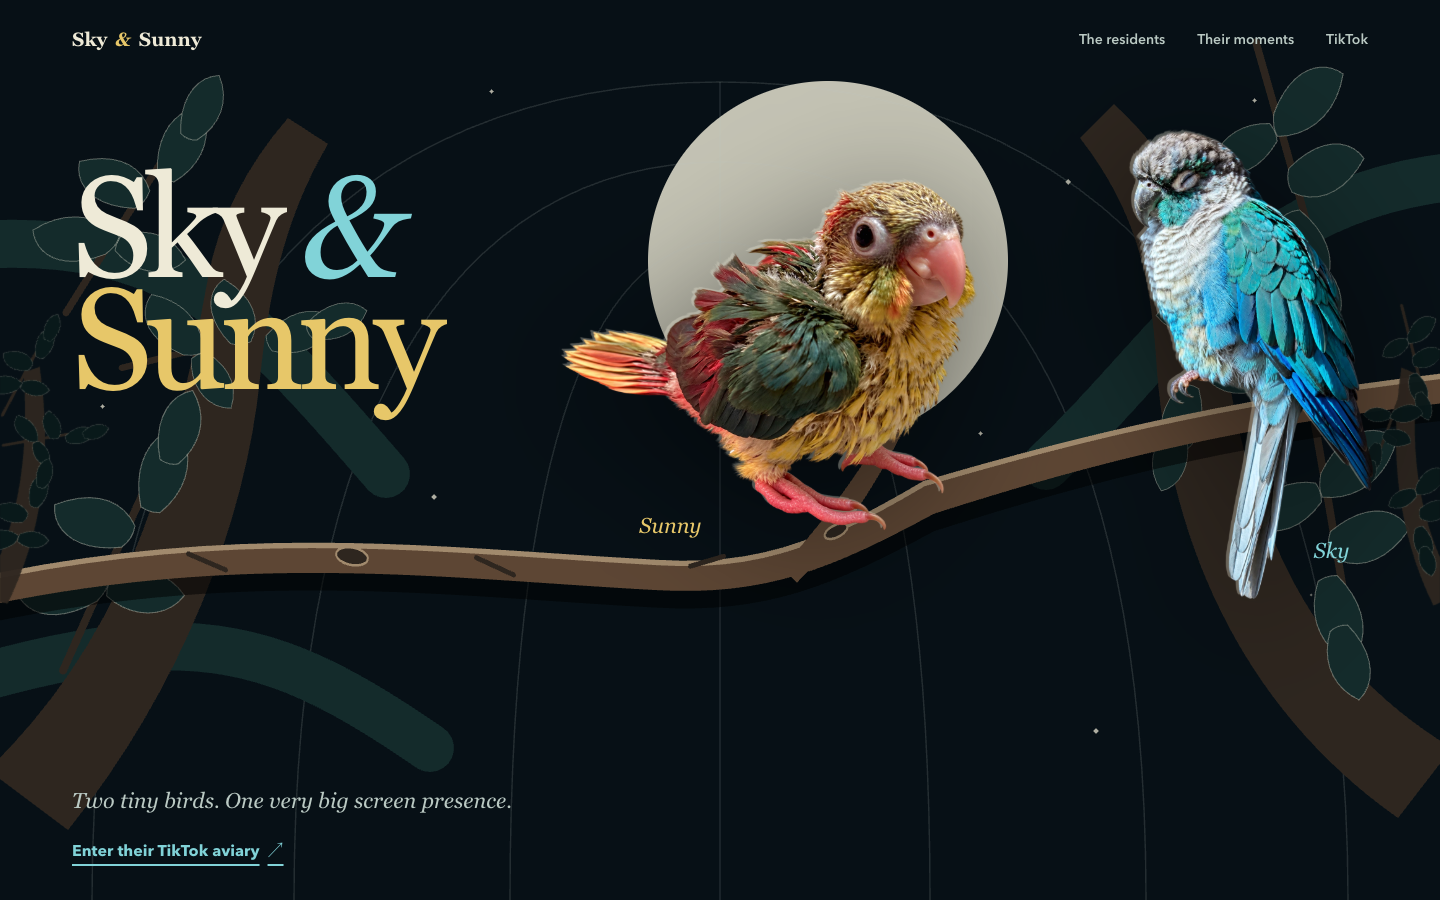
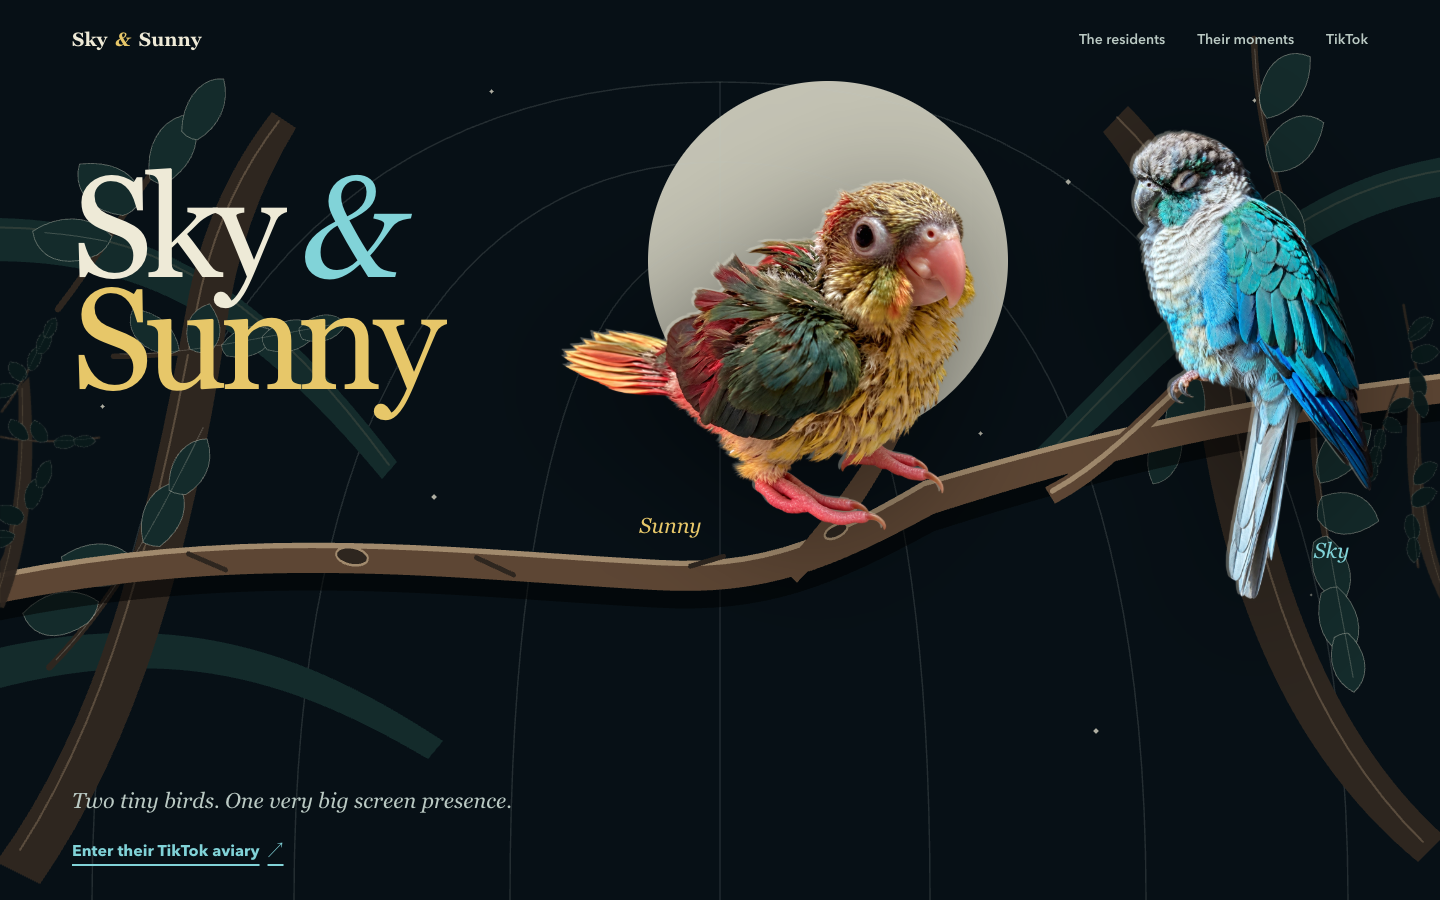
fix: connect aviary branches across viewports

diff --git a/sandbox/night-aviary/index.html b/sandbox/night-aviary/index.html
@@ -30,13 +30,30 @@
   <main id="main-content">
     <svg class="scene-definitions" width="0" height="0" aria-hidden="true" focusable="false">
       <defs>
-        <symbol id="leaf-spray" viewBox="0 0 180 140">
-          <path class="leaf-stem" d="M14 130C50 102 88 72 164 15"></path>
-          <path class="leaf-blade" d="M54 101C20 102 8 84 12 68C38 62 59 73 67 93C64 97 60 99 54 101Z"></path>
-          <path class="leaf-blade" d="M84 78C57 67 50 48 59 34C85 37 99 51 98 70C94 75 90 77 84 78Z"></path>
-          <path class="leaf-blade" d="M107 61C115 34 135 22 152 28C153 50 138 66 116 70C112 68 109 65 107 61Z"></path>
-          <path class="leaf-blade" d="M132 40C139 17 156 6 171 11C172 30 160 44 141 48C137 47 134 44 132 40Z"></path>
-          <path class="leaf-blade" d="M61 101C68 121 88 132 105 124C103 106 91 95 70 92C66 94 63 97 61 101Z"></path>
+        <symbol id="leaf-spray-a" viewBox="0 0 200 160">
+          <path class="leaf-stem" d="M12 148C58 116 102 72 187 13"></path>
+          <path class="leaf-blade" d="M54 116C25 119 8 104 11 83C39 75 61 87 70 105C66 111 61 114 54 116Z"></path>
+          <path class="leaf-vein" d="M20 87C38 94 52 101 65 108"></path>
+          <path class="leaf-blade" d="M83 92C58 81 51 60 62 43C89 48 104 64 101 83C96 89 91 92 83 92Z"></path>
+          <path class="leaf-blade" d="M112 70C116 42 137 26 158 31C162 54 147 71 122 78C117 76 114 74 112 70Z"></path>
+          <path class="leaf-blade" d="M147 42C155 17 176 5 191 12C190 32 177 47 157 52C152 50 149 47 147 42Z"></path>
+        </symbol>
+        <symbol id="leaf-spray-b" viewBox="0 0 200 160">
+          <path class="leaf-stem" d="M18 150C62 124 102 91 177 18"></path>
+          <path class="leaf-blade" d="M54 125C31 132 13 121 11 104C33 92 55 99 67 114C64 120 60 123 54 125Z"></path>
+          <path class="leaf-blade" d="M75 108C57 94 57 76 69 63C90 72 98 87 91 102C86 106 81 108 75 108Z"></path>
+          <path class="leaf-blade" d="M98 90C100 68 116 53 134 55C138 74 127 89 107 96C103 95 100 93 98 90Z"></path>
+          <path class="leaf-blade" d="M126 64C130 41 148 27 166 31C169 50 157 66 136 72C131 70 128 68 126 64Z"></path>
+          <path class="leaf-blade" d="M151 40C155 20 171 9 186 14C187 31 176 43 159 47C155 45 153 43 151 40Z"></path>
+          <path class="leaf-vein" d="M22 145C67 120 109 80 177 20"></path>
+        </symbol>
+        <symbol id="leaf-spray-c" viewBox="0 0 200 160">
+          <path class="leaf-stem" d="M8 146C64 125 116 91 190 30"></path>
+          <path class="leaf-blade" d="M48 128C21 133 5 120 7 101C33 91 53 101 62 117C58 123 54 126 48 128Z"></path>
+          <path class="leaf-blade" d="M82 111C58 108 45 92 51 75C77 71 94 82 99 99C95 105 89 109 82 111Z"></path>
+          <path class="leaf-blade" d="M111 91C116 67 135 55 154 61C155 81 143 94 121 99C117 97 114 95 111 91Z"></path>
+          <path class="leaf-blade" d="M145 64C153 43 172 34 187 41C185 59 173 70 155 72C151 70 148 68 145 64Z"></path>
+          <path class="leaf-vein" d="M15 143C67 123 119 88 188 32"></path>
         </symbol>
       </defs>
     </svg>
@@ -57,27 +74,30 @@
           <path d="M720 82V900"></path>
         </svg>
         <svg class="back-branches" viewBox="0 0 1440 900" preserveAspectRatio="none" focusable="false">
-          <path d="M-40 246C178 228 252 320 386 474"></path>
-          <path d="M1480 174C1248 190 1188 332 1046 466"></path>
-          <path d="M-80 696C184 612 270 638 430 748"></path>
+          <path class="back-branch" d="M-50 219C137 208 257 278 397 462L382 479C246 315 132 249 -50 263Z"></path>
+          <path class="back-branch" d="M1492 151C1291 166 1200 285 1031 455L1048 474C1218 315 1307 203 1492 190Z"></path>
+          <path class="back-branch" d="M-88 672C142 596 285 637 443 741L428 759C272 667 137 632 -88 716Z"></path>
+          <path class="back-branch-light" d="M-32 228C146 220 261 290 389 465M1478 166C1295 181 1208 292 1040 462"></path>
         </svg>
       </div>
 
       <div class="habitat-plane canopy-middle" data-depth="2" aria-hidden="true">
         <svg class="middle-foliage foliage-left" viewBox="0 0 520 900" focusable="false">
-          <path class="branch-fill" d="M-40 770C88 644 140 500 180 278C190 222 218 166 260 118L300 144C254 222 240 302 232 378C218 520 154 688 40 830Z"></path>
+          <path class="branch-fill" d="M-32 862C68 726 118 536 158 310C172 230 202 166 244 112L268 128C230 190 208 256 198 328C164 552 111 741 12 884Z"></path>
+          <path class="branch-fill-light" d="M-8 850C79 716 128 531 168 312C183 234 210 175 251 121"></path>
           <g class="leaf-fill">
-            <use href="#leaf-spray" x="-18" y="94" width="258" height="202" transform="rotate(-20 110 195)"></use>
-            <use href="#leaf-spray" x="98" y="246" width="230" height="180" transform="rotate(24 210 338)"></use>
-            <use href="#leaf-spray" x="-44" y="426" width="282" height="220" transform="rotate(-28 88 536)"></use>
+            <use href="#leaf-spray-a" x="-18" y="94" width="258" height="202" transform="rotate(-17 110 195)"></use>
+            <use href="#leaf-spray-b" x="92" y="250" width="218" height="174" transform="rotate(31 201 337)"></use>
+            <use href="#leaf-spray-c" x="-42" y="430" width="276" height="214" transform="rotate(-25 92 537)"></use>
           </g>
         </svg>
         <svg class="middle-foliage foliage-right" viewBox="0 0 520 900" focusable="false">
-          <path class="branch-fill" d="M560 748C414 660 350 520 326 302C316 218 276 154 222 104L188 138C244 210 258 276 264 356C274 530 344 704 506 818Z"></path>
+          <path class="branch-fill" d="M552 836C430 726 370 548 344 326C334 236 294 164 236 106L211 132C263 196 291 265 299 347C320 561 381 742 526 862Z"></path>
+          <path class="branch-fill-light" d="M531 842C411 724 354 547 331 329C321 243 284 174 225 117"></path>
           <g class="leaf-fill">
-            <use href="#leaf-spray" x="270" y="74" width="270" height="210" transform="rotate(112 404 180)"></use>
-            <use href="#leaf-spray" x="192" y="270" width="242" height="188" transform="rotate(148 316 366)"></use>
-            <use href="#leaf-spray" x="306" y="438" width="280" height="218" transform="rotate(118 446 546)"></use>
+            <use href="#leaf-spray-c" x="270" y="74" width="270" height="210" transform="rotate(109 404 180)"></use>
+            <use href="#leaf-spray-a" x="190" y="270" width="238" height="186" transform="rotate(151 312 364)"></use>
+            <use href="#leaf-spray-b" x="306" y="438" width="280" height="218" transform="rotate(121 446 546)"></use>
           </g>
         </svg>
       </div>
@@ -102,6 +122,10 @@
           <path class="perch-main" d="M-40 150C236 100 444 124 658 133C760 138 824 117 924 70C1094 30 1254 0 1488 -20L1488 2C1254 20 1098 52 934 94C832 138 766 160 656 155C444 146 236 122 -40 172Z"></path>
           <path class="branch-edge" d="M-40 150C236 100 444 124 658 133C760 138 824 117 924 70C1094 30 1254 0 1488 -20"></path>
           <path class="perch-fork" d="M782 137C835 91 872 45 901 4L914 11C885 57 852 105 797 149Z"></path>
+          <path class="perch-junction junction-wide" d="M1045 73C1093 54 1136 19 1175 -12L1186 -5C1145 31 1103 66 1055 86Z"></path>
+          <path class="branch-edge junction-wide junction-edge" d="M1052 76C1098 56 1139 23 1180 -8"></path>
+          <path class="perch-junction junction-mid" d="M892 72C940 83 985 105 1029 117L1035 132C982 122 938 101 887 85Z"></path>
+          <path class="branch-edge junction-mid junction-edge" d="M895 76C943 88 986 109 1032 124"></path>
           <path class="branch-fissure" d="M188 126L226 139M476 129L514 143M690 136L724 128"></path>
           <ellipse class="branch-knot" cx="352" cy="128" rx="16" ry="7" transform="rotate(8 352 128)"></ellipse>
           <ellipse class="branch-knot" cx="836" cy="108" rx="12" ry="5" transform="rotate(-20 836 108)"></ellipse>
@@ -114,19 +138,21 @@
 
       <div class="habitat-plane canopy-foreground" data-depth="4" data-entrance aria-hidden="true">
         <svg class="front-foliage front-left" viewBox="0 0 540 900" focusable="false">
-          <path class="branch-front" d="M-62 910C54 706 92 484 74 208L124 190C164 474 132 706 24 930Z"></path>
+          <path class="branch-front" d="M-42 932C35 760 65 532 57 258L91 221C116 504 95 747 12 944Z"></path>
+          <path class="branch-front-light" d="M-15 924C48 751 77 526 69 256"></path>
           <g class="leaf-front">
-            <use href="#leaf-spray" x="-76" y="58" width="330" height="256" transform="rotate(-24 86 184)"></use>
-            <use href="#leaf-spray" x="20" y="286" width="306" height="238" transform="rotate(28 170 402)"></use>
-            <use href="#leaf-spray" x="-102" y="520" width="352" height="274" transform="rotate(-30 72 656)"></use>
+            <use href="#leaf-spray-b" x="-76" y="58" width="322" height="250" transform="rotate(-21 82 181)"></use>
+            <use href="#leaf-spray-c" x="18" y="286" width="294" height="230" transform="rotate(33 164 398)"></use>
+            <use href="#leaf-spray-a" x="-100" y="520" width="344" height="268" transform="rotate(-27 72 654)"></use>
           </g>
         </svg>
         <svg class="front-foliage front-right" viewBox="0 0 540 900" focusable="false">
-          <path class="branch-front" d="M602 900C476 704 444 468 470 214L420 192C380 462 410 710 520 936Z"></path>
+          <path class="branch-front" d="M590 934C501 760 470 525 482 258L448 222C419 498 444 746 558 948Z"></path>
+          <path class="branch-front-light" d="M566 928C489 751 462 524 473 257"></path>
           <g class="leaf-front">
-            <use href="#leaf-spray" x="294" y="42" width="338" height="262" transform="rotate(114 464 174)"></use>
-            <use href="#leaf-spray" x="218" y="284" width="308" height="240" transform="rotate(148 372 404)"></use>
-            <use href="#leaf-spray" x="310" y="512" width="352" height="274" transform="rotate(118 486 650)"></use>
+            <use href="#leaf-spray-a" x="294" y="42" width="330" height="256" transform="rotate(117 459 171)"></use>
+            <use href="#leaf-spray-b" x="220" y="284" width="298" height="232" transform="rotate(145 369 400)"></use>
+            <use href="#leaf-spray-c" x="310" y="512" width="342" height="266" transform="rotate(122 481 645)"></use>
           </g>
         </svg>
       </div>
@@ -137,14 +163,20 @@
         <h2 id="moments-title">Three small encounters after dark.</h2>
       </div>
       <svg class="moment-foliage moment-foliage-left" viewBox="0 0 340 800" aria-hidden="true" focusable="false">
-        <use href="#leaf-spray" x="-80" y="28" width="300" height="232" transform="rotate(-22 70 144)"></use>
-        <use href="#leaf-spray" x="22" y="244" width="254" height="198" transform="rotate(26 148 344)"></use>
-        <use href="#leaf-spray" x="-98" y="490" width="318" height="246" transform="rotate(-30 62 612)"></use>
+        <use href="#leaf-spray-c" x="-80" y="28" width="300" height="232" transform="rotate(-19 70 144)"></use>
+        <use href="#leaf-spray-a" x="22" y="244" width="254" height="198" transform="rotate(29 148 344)"></use>
+        <use href="#leaf-spray-b" x="-98" y="490" width="318" height="246" transform="rotate(-27 62 612)"></use>
       </svg>
       <svg class="moment-foliage moment-foliage-right" viewBox="0 0 340 800" aria-hidden="true" focusable="false">
-        <use href="#leaf-spray" x="118" y="40" width="300" height="232" transform="rotate(116 270 156)"></use>
-        <use href="#leaf-spray" x="40" y="270" width="258" height="200" transform="rotate(148 172 370)"></use>
-        <use href="#leaf-spray" x="132" y="500" width="314" height="244" transform="rotate(120 288 622)"></use>
+        <use href="#leaf-spray-b" x="118" y="40" width="300" height="232" transform="rotate(113 270 156)"></use>
+        <use href="#leaf-spray-c" x="40" y="270" width="258" height="200" transform="rotate(151 172 370)"></use>
+        <use href="#leaf-spray-a" x="132" y="500" width="314" height="244" transform="rotate(123 288 622)"></use>
+      </svg>
+      <svg class="habitat-branch habitat-branch-compact" viewBox="0 0 390 2720" preserveAspectRatio="none" aria-hidden="true" focusable="false">
+        <path class="compact-branch-shadow" d="M430 -50C405 145 375 260 363 327C408 365 423 485 423 807C411 901 379 1012 365 1077C408 1120 422 1275 422 1586C410 1710 374 1960 358 2107C407 2150 423 2320 423 2647C414 2708 390 2760 371 2790L398 2790C422 2740 443 2690 445 2638C440 2310 424 2138 385 2098C402 1955 435 1702 444 1580C440 1265 428 1105 391 1068C405 1006 434 895 445 800C440 475 426 350 390 320C402 255 430 140 451 -50Z"></path>
+        <path class="branch-main compact-branch-main" d="M421 -50C398 145 368 260 356 327C401 365 416 485 416 807C404 901 372 1012 358 1077C401 1120 415 1275 415 1586C403 1710 367 1960 351 2107C400 2150 416 2320 416 2647C407 2708 383 2760 364 2790L384 2790C406 2740 427 2690 429 2638C424 2310 408 2138 369 2098C386 1955 419 1702 428 1580C424 1265 412 1105 375 1068C389 1006 418 895 429 800C424 475 410 350 374 320C386 255 414 140 435 -50Z"></path>
+        <path class="branch-edge compact-branch-edge" d="M421 -40C399 150 370 262 358 326C402 367 417 486 417 804M416 812C404 906 373 1012 360 1075M359 1082C402 1124 416 1277 416 1584M415 1591C403 1714 369 1962 353 2105M354 2112C401 2154 417 2321 417 2644C408 2709 385 2758 366 2782"></path>
+        <path class="branch-mark compact-branch-mark" d="M375 276L391 291M374 1015L392 1028M391 1770L374 1788M389 2460L405 2478"></path>
       </svg>
       <svg class="habitat-branch" viewBox="0 0 1440 2720" preserveAspectRatio="none" aria-hidden="true" focusable="false">
         <path class="branch-shadow segment-one" d="M-80 92C180 124 384 246 456 470C538 724 512 902 600 1080"></path>

diff --git a/sandbox/night-aviary/styles.css b/sandbox/night-aviary/styles.css
@@ -318,6 +318,9 @@ h3 {
   inset: 0;
   width: 100%;
   height: 100%;
+}
+
+.aviary-ribs {
   fill: none;
 }
 
@@ -326,10 +329,15 @@ h3 {
   stroke-width: 1.4;
 }
 
-.back-branches path {
-  stroke: var(--color-canopy-distant);
+.back-branch {
+  fill: var(--color-canopy-distant);
+}
+
+.back-branch-light {
+  fill: none;
+  stroke: rgba(161, 138, 109, 0.18);
   stroke-linecap: round;
-  stroke-width: 48;
+  stroke-width: 2;
 }
 
 .canopy-middle {
@@ -361,6 +369,14 @@ h3 {
   fill: var(--color-bark-dark);
 }
 
+.branch-fill-light,
+.branch-front-light {
+  fill: none;
+  stroke: rgba(161, 138, 109, 0.38);
+  stroke-linecap: round;
+  stroke-width: 2;
+}
+
 .leaf-fill {
   fill: var(--color-canopy-distant);
 }
@@ -376,6 +392,13 @@ h3 {
   fill: inherit;
   stroke: var(--color-moon-edge);
   stroke-width: 0.7;
+}
+
+.leaf-vein {
+  fill: none;
+  stroke: rgba(238, 234, 215, 0.2);
+  stroke-linecap: round;
+  stroke-width: 0.8;
 }
 
 .hero-content {
@@ -518,8 +541,13 @@ h1 i {
 }
 
 .perch-main,
-.perch-fork {
+.perch-fork,
+.perch-junction {
   fill: var(--color-bark);
+}
+
+.junction-mid {
+  display: none;
 }
 
 .shared-perch .branch-edge {
@@ -661,6 +689,27 @@ h2 {
   width: 100%;
   height: calc(100% - 18rem);
   overflow: visible;
+}
+
+.habitat-branch-compact {
+  display: none;
+}
+
+.compact-branch-shadow {
+  fill: var(--color-shadow);
+}
+
+.habitat-branch .compact-branch-main {
+  fill: var(--color-bark);
+  stroke: none;
+}
+
+.compact-branch-edge {
+  stroke-width: 2;
+}
+
+.compact-branch-mark {
+  stroke-width: 5;
 }
 
 .branch-mark {
@@ -872,6 +921,14 @@ h3 {
     height: 30%;
   }
 
+  .junction-wide {
+    display: none;
+  }
+
+  .junction-mid {
+    display: block;
+  }
+
   .front-foliage {
     width: 10vw;
   }
@@ -1009,9 +1066,14 @@ h3 {
     padding-left: 8%;
   }
 
-  .habitat-branch {
-    inset: 15rem auto 0 -11rem;
-    width: 14rem;
+  .habitat-branch:not(.habitat-branch-compact) {
+    display: none;
+  }
+
+  .habitat-branch-compact {
+    display: block;
+    inset: 15rem 0 0;
+    width: 100%;
     height: calc(100% - 15rem);
   }
 
@@ -1093,6 +1155,10 @@ h3 {
   .resident-sky {
     top: 28%;
     width: 48vw;
+  }
+
+  .junction-mid {
+    display: none;
   }
 
   .hero-note {
